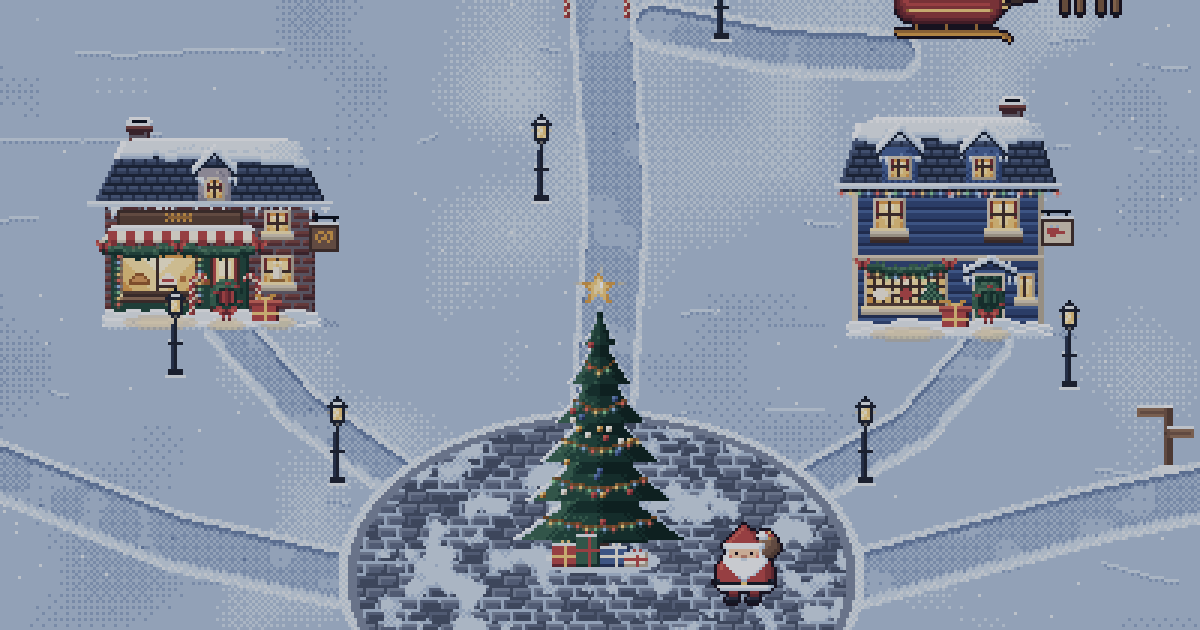
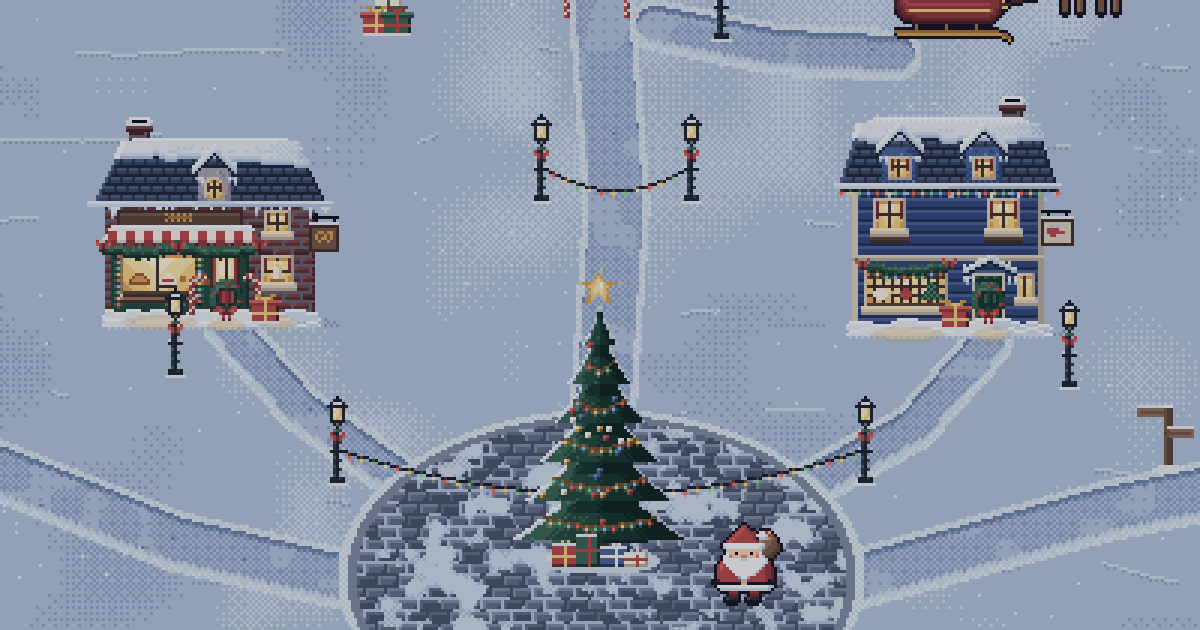
feat: 전구 줄·리본·랜턴 등 마을 장식 추가

diff --git a/src/game/world.ts b/src/game/world.ts
@@ -227,6 +227,7 @@ export type LampGroup = "always" | "plaza" | BuildingId;
 export const LAMPS: ReadonlyArray<{ x: number; y: number; group: LampGroup; step?: number }> = [
   { x: 548, y: 276, group: "always" },
   { x: 488, y: 330, group: "always" },
+  { x: 538, y: 330, group: "always" },
   { x: 420, y: 424, group: "plaza", step: 1 },
   { x: 596, y: 424, group: "plaza", step: 3 },
   { x: 418, y: 520, group: "plaza", step: 5 },
@@ -251,7 +252,10 @@ export type PropKind =
   | "crates"
   | "fence"
   | "fence-side"
-  | "candy-cane";
+  | "candy-cane"
+  | "lantern-post"
+  | "xmas-tree"
+  | "gifts";
 
 export type Prop = { kind: PropKind; x: number; y: number; flip?: boolean };
 
@@ -270,7 +274,13 @@ export const PROP_KINDS: Record<
   fence: { src: "decorations/fence.png", w: 34, h: 11, block: [0, 5, 34, 6] },
   "fence-side": { src: "decorations/fence-side.png", w: 6, h: 44, block: [1, 0, 5, 40] },
   "candy-cane": { src: "decorations/candy-cane.png", w: 6, h: 14, block: null },
+  "lantern-post": { src: "decorations/lantern-post.png", w: 7, h: 32, block: [2, 29, 3, 3] },
+  "xmas-tree": { src: "decorations/xmas-tree.png", w: 20, h: 33, block: [6, 26, 8, 6] },
+  gifts: { src: "decorations/gifts.png", w: 18, h: 16, block: [1, 10, 16, 5] },
 };
+
+/** Where a lantern post's flame sits, relative to the sprite (for its glow). */
+export const LANTERN_FLAME: Pt = [3.5, 5];
 
 const HAND_PROPS: Prop[] = [
   // plaza benches + workshop crates
@@ -294,7 +304,106 @@ const HAND_PROPS: Prop[] = [
   { kind: "fence", x: 258, y: 724 },
   { kind: "candy-cane", x: 500, y: 284 },
   { kind: "candy-cane", x: 520, y: 284 },
+  // Christmas touches at the places people pass: lanes, the sleigh, the way in
+  { kind: "candy-cane", x: 146, y: 290 },
+  { kind: "candy-cane", x: 166, y: 290 },
+  { kind: "candy-cane", x: 886, y: 282 },
+  { kind: "candy-cane", x: 906, y: 282 },
+  { kind: "gifts", x: 432, y: 288 },
+  { kind: "xmas-tree", x: 622, y: 250 },
+  { kind: "xmas-tree", x: 534, y: 760 },
+  { kind: "lantern-post", x: 486, y: 776 },
+  { kind: "lantern-post", x: 520, y: 776 },
+  { kind: "lantern-post", x: 176, y: 300 },
+  { kind: "lantern-post", x: 640, y: 730 },
 ];
+
+export const BULB_COLORS = ["#ef7466", "#ffd98a", "#8fd19e", "#fff4d6"] as const;
+const BULB_DARK = ["#6e2b34", "#7a4f28", "#24493f", "#6b665c"] as const;
+export const BUNTING_COLORS = ["#b94b4b", "#3c6654", "#f7f1e5"] as const;
+export const WIRE = "#1b1d29";
+
+/**
+ * Festoons: string lights (or a bunting) hung between two points, sagging
+ * `sag` pixels in the middle. `z` is the ground line used for depth; lights
+ * switch on with the lamps of the same group.
+ */
+export type Strand = {
+  a: Pt;
+  b: Pt;
+  sag: number;
+  z: number;
+  kind: "lights" | "bunting";
+  group: LampGroup;
+  step?: number;
+};
+const bridgeRail = (y: number, z: number): Strand[] =>
+  [2, 13, 24, 35].map((x, i, xs) => ({
+    a: [BRIDGE.x + x + 1, BRIDGE.y + y] as Pt,
+    b: [BRIDGE.x + (xs[i + 1] ?? 45) + 1, BRIDGE.y + y] as Pt,
+    sag: 2,
+    z: BRIDGE.y + z + 0.02,
+    kind: "lights" as const,
+    group: "woodland-cabin" as const,
+  }));
+export const STRANDS: readonly Strand[] = [
+  // over the street from the workshop, lit from the start
+  { a: [494, 348], b: [540, 348], sag: 7, z: 360, kind: "lights", group: "always" },
+  // across the plaza, north and south, as the plaza lamps come on
+  { a: [426, 442], b: [598, 442], sag: 14, z: 454, kind: "lights", group: "plaza", step: 3 },
+  { a: [424, 538], b: [600, 538], sag: 14, z: 550, kind: "lights", group: "plaza", step: 7 },
+  // the footbridge railings, once the cabin across it is served
+  ...bridgeRail(1, 9),
+  ...bridgeRail(23, 31),
+  // a little bunting at the way into the village
+  { a: [489, 777], b: [523, 777], sag: 6, z: 808, kind: "bunting", group: "always" },
+];
+
+/** The wire's pixels and the points where bulbs (or flags) hang. */
+export function strandPixels(s: Strand): { wire: Pt[]; beads: Pt[] } {
+  const [ax, ay] = s.a;
+  const [bx, by] = s.b;
+  const n = Math.max(1, Math.round(Math.abs(bx - ax)));
+  const wire: Pt[] = [];
+  const beads: Pt[] = [];
+  const every = s.kind === "bunting" ? 5 : 4;
+  for (let i = 0; i <= n; i++) {
+    const t = i / n;
+    const p: Pt = [
+      Math.round(ax + (bx - ax) * t),
+      Math.round(ay + (by - ay) * t + s.sag * 4 * t * (1 - t)),
+    ];
+    wire.push(p);
+    if (i > 1 && i < n - 1 && i % every === 2) beads.push(p);
+  }
+  return { wire, beads };
+}
+
+/**
+ * Paint a strand through `set`: the wire, unlit bulbs (or pennants). Returns
+ * where each bulb sits, so a lit layer can glow on top of it.
+ */
+export function paintStrand(s: Strand, set: (x: number, y: number, c: string) => void): Pt[] {
+  const { wire, beads } = strandPixels(s);
+  for (const [x, y] of wire) set(x, y, WIRE);
+  return beads.map(([x, y], i): Pt => {
+    if (s.kind === "lights") set(x, y + 1, BULB_DARK[i % BULB_DARK.length]!);
+    else {
+      const c = BUNTING_COLORS[i % BUNTING_COLORS.length]!;
+      for (const [dx, dy] of [
+        [-1, 1],
+        [0, 1],
+        [1, 1],
+        [-1, 2],
+        [0, 2],
+        [1, 2],
+        [0, 3],
+      ] as const)
+        set(x + dx, y + dy, c);
+    }
+    return [x, y + 1];
+  });
+}
 
 // ------------------------------------------------------------------ geometry
 

diff --git a/scripts/art/decorations.ts b/scripts/art/decorations.ts
@@ -171,6 +171,69 @@ export function lamppost(lit: boolean): Px {
   px.hline(1, 7, 29, C.snow5);
   px.set(2, 17, C.snow5);
   px.set(6, 17, C.snow4);
+  // a sprig of pine and a red ribbon tied under the lantern
+  for (const [x, y, c] of [
+    [2, 12, C.pine3],
+    [3, 11, C.pine4],
+    [5, 11, C.pine3],
+    [6, 12, C.pine2],
+    [4, 11, C.pine3],
+  ] as const)
+    px.set(x, y, c);
+  bow(px, 4, 13);
+  // a pine twist down the pole
+  for (const y of [20, 23, 26]) {
+    px.set(3, y, C.pine3);
+    px.set(5, y + 1, C.pine2);
+  }
+  return px;
+}
+
+/** A short wooden post with a lantern, tied with a ribbon: always burning. */
+export function lanternPost(): Px {
+  const px = new Px(7, 32);
+  px.blit(lantern(true), 0, 0);
+  px.vline(3, 11, 30, C.wood2);
+  px.vline(2, 11, 30, C.wood4);
+  px.vline(4, 12, 30, C.wood1);
+  for (const [x, y, c] of [
+    [1, 12, C.pine3],
+    [5, 12, C.pine2],
+    [2, 11, C.pine4],
+    [4, 11, C.pine3],
+  ] as const)
+    px.set(x, y, c);
+  bow(px, 3, 14);
+  px.ellipse(3.5, 30.5, 3.2, 1.2, C.snow5);
+  return px;
+}
+
+/** A small pine dressed for Christmas: soft bulbs, a gold star. */
+export function xmasTree(): Px {
+  const px = new Px(20, 33);
+  const tree = pine("small", 9);
+  px.blit(tree, 0, 1);
+  const r = rng(77);
+  const placed: Array<readonly [number, number]> = [];
+  for (let i = 0; i < 400 && placed.length < 11; i++) {
+    const x = 2 + Math.floor(r() * 16);
+    const y = 7 + Math.floor(r() * 20);
+    if (tree.alphaAt(x, y - 1) < 200 || tree.alphaAt(x, y) < 200) continue;
+    if (placed.some(([px2, py]) => Math.abs(px2 - x) + Math.abs(py - y) < 4)) continue;
+    placed.push([x, y]);
+  }
+  const warm = [C.bulbRed, C.bulbGold, C.bulbGreen, C.bulbWhite];
+  placed.forEach(([x, y], i) => px.set(x, y, warm[i % warm.length]!));
+  px.map(8, 0, [".a.", "aba", ".a."], { a: C.gold3, b: C.gold4 });
+  return px;
+}
+
+/** Three wrapped presents stacked by the workshop. */
+export function giftStack(boxes: readonly Px[]): Px {
+  const px = new Px(18, 16);
+  px.blit(boxes[2]!, 4, 0); // peeking over the back
+  px.blit(boxes[0]!, 0, 6);
+  px.blit(boxes[1]!, 7, 6);
   return px;
 }
 
@@ -357,6 +420,11 @@ export function fence(): Px {
     px.hline(0, 33, y - 1, C.snow5);
   }
   for (const x of [1, 12, 23]) px.hline(x, x + 2, 0, C.snow6);
+  // pine garland swagged along the top rail, a bow on each post
+  garland(px, 2, 13, 2, 2, 31);
+  garland(px, 13, 24, 2, 2, 32);
+  garland(px, 24, 33, 2, 2, 33);
+  for (const x of [2, 13, 24]) bow(px, x, 2);
   return px;
 }
 

diff --git a/scripts/generate-assets.ts b/scripts/generate-assets.ts
@@ -28,8 +28,11 @@ import {
   SKY_TOP,
   SLEIGH_PARK,
   SPAWN,
+  STRANDS,
+  BULB_COLORS,
   TREE,
   WORLD,
+  paintStrand,
   sizesOf,
   worldProps,
   type BuildingId,
@@ -108,6 +111,8 @@ save("decorations/lamppost.png", D.lamppost(false));
 save("decorations/lamppost-lit.png", D.lamppost(true));
 save("decorations/snowman.png", D.snowman());
 save("decorations/candy-cane.png", D.candyCane());
+save("decorations/lantern-post.png", D.lanternPost());
+save("decorations/xmas-tree.png", D.xmasTree());
 save("decorations/fence.png", D.fence());
 save("decorations/fence-side.png", B.fenceSide(36));
 save("decorations/bench.png", B.bench());
@@ -139,10 +144,15 @@ save("effects/flake.png", flake);
 const dot = new Px(1, 1);
 dot.set(0, 0, C.snow6);
 save("effects/dot.png", dot);
+// a soft, nearer snowflake that drifts past the camera now and then
+const big = new Px(3, 3);
+big.map(0, 0, [".a.", "aba", ".a."], { a: C.snow4, b: C.snow6 });
+save("effects/flake-large.png", big);
 
 // ---------------------------------------------------------------- gifts + characters
 for (const id of Object.keys(WRAPS) as WrapId[]) save(`gifts/box-${id}.png`, giftBox(id));
 for (const [id, draw] of Object.entries(ITEMS)) save(`gifts/item-${id}.png`, draw());
+save("decorations/gifts.png", D.giftStack([giftBox("crimson"), giftBox("pine"), giftBox("ivory")]));
 save("ui/paper.png", paper.paperTile());
 save("ui/holly.png", paper.holly());
 save("ui/stamp.png", paper.stamp());
@@ -244,6 +254,15 @@ function compose(
           l.x,
           l.y,
         ),
+    });
+  for (const s of STRANDS)
+    items.push({
+      z: s.z,
+      draw: () => {
+        const bulbs = paintStrand(s, (x, y, c) => out.set(x - ox, y - oy, c));
+        if (s.kind === "lights" && (treeLit || s.group === "always"))
+          bulbs.forEach(([x, y], i) => D.bulb(out, x - ox, y - oy, BULB_COLORS[i % 4]!));
+      },
     });
   items.push({ z: BRIDGE.y + 9, draw: () => place("world/bridge-back.png", BRIDGE.x, BRIDGE.y) });
   items.push({ z: BRIDGE.y + 31, draw: () => place("world/bridge-front.png", BRIDGE.x, BRIDGE.y) });

diff --git a/tests/world.test.ts b/tests/world.test.ts
@@ -9,10 +9,12 @@ import {
   postcardFrame,
   SLEIGH_PICKUP,
   SPAWN,
+  STRANDS,
   doorStand,
   isWater,
   obstacles,
   sizesOf,
+  strandPixels,
   worldProps,
   type BuildingId,
   type BuildingMeta,
@@ -87,5 +89,20 @@ test("each house's postcard frames the whole house with the doorstep above the c
     assert.ok(b.y >= top, `${id} roof is inside the frame`);
     for (const [, y] of [m.door, m.gift])
       assert.ok(b.y + y - top < POSTCARD.cardTop - 4, `${id} doorstep stays above the card`);
+  }
+});
+
+test("string lights hang as one unbroken wire, with bulbs along it, inside the map", () => {
+  for (const s of STRANDS) {
+    const { wire, beads } = strandPixels(s);
+    assert.ok(beads.length >= 2, "a strand carries at least two bulbs or flags");
+    for (let i = 1; i < wire.length; i++) {
+      const [ax, ay] = wire[i - 1]!;
+      const [bx, by] = wire[i]!;
+      assert.ok(Math.abs(bx - ax) <= 1 && Math.abs(by - ay) <= 1, "no gaps in the wire");
+    }
+    const lowest = Math.max(...wire.map((p) => p[1]));
+    assert.ok(lowest >= Math.max(s.a[1], s.b[1]), "it sags, never arches");
+    for (const [x, y] of wire) assert.ok(x >= 0 && y >= 0 && x < WORLD.w && y < WORLD.h);
   }
 });
